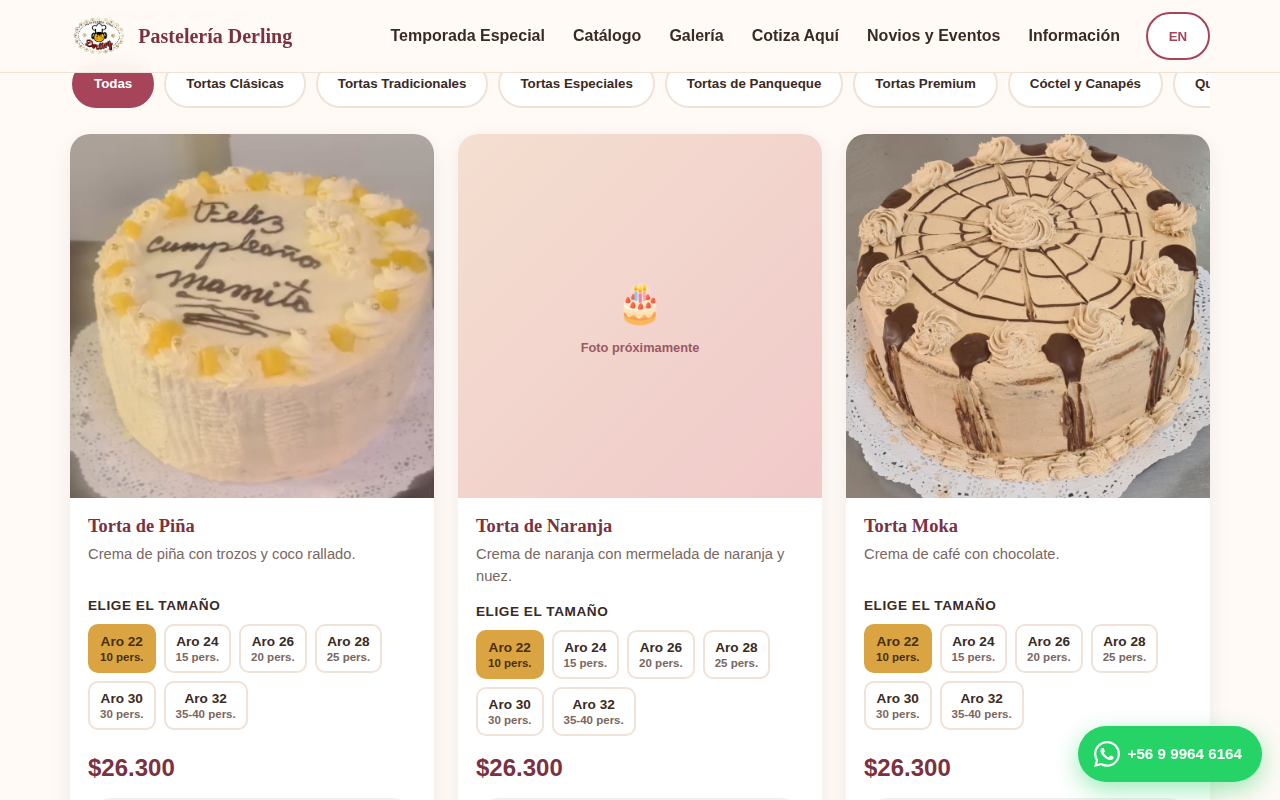
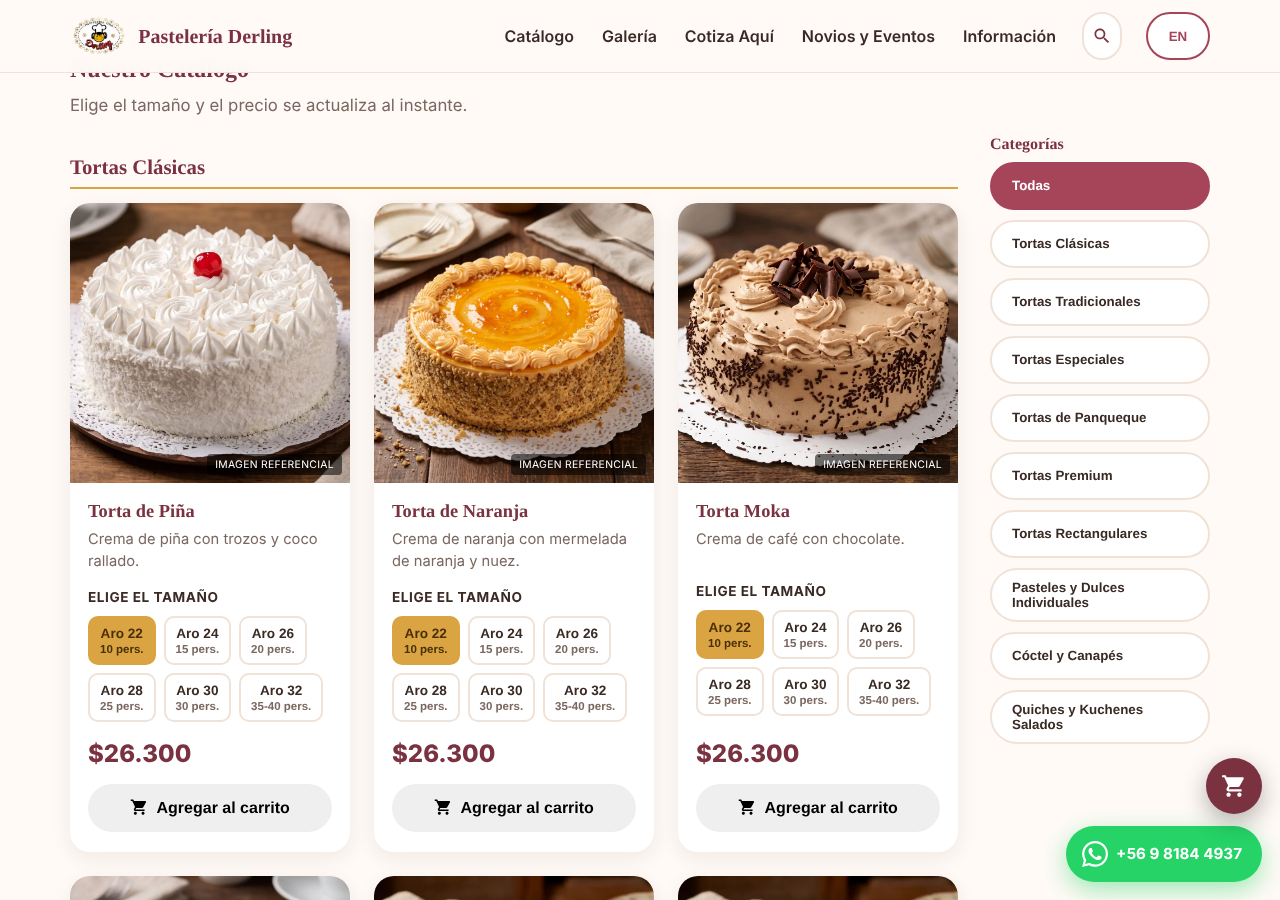
Actualizar README y capturas para presentación como portafolio
Reemplaza capturas desactualizadas con vistas actuales del sitio (carrito,
buscador en header, categorías en barra lateral), corrige la URL del sitio
en vivo, actualiza la lista de funcionalidades y simplifica las
instrucciones de instalación local ahora que main es la rama principal.

Claude-Session: https://claude.ai/code/session_01VYEH9iXryEp8i9u5qy5gRX

diff --git a/README.md b/README.md
@@ -4,7 +4,7 @@
 
 **Catálogo web para una pastelería artesanal en Copiapó, Chile** — bilingüe, 100% responsivo, con pedidos por WhatsApp y cero dependencias externas.
 
-[🔗 Ver sitio en vivo](https://TU-SITIO.netlify.app) · [📋 Reportar un problema](../../issues)
+[🔗 Ver sitio en vivo](https://pasteleriafinaderling.cl) · [📋 Reportar un problema](../../issues)
 
 ![HTML5](https://img.shields.io/badge/HTML5-E34F26?style=flat&logo=html5&logoColor=white)
 ![CSS3](https://img.shields.io/badge/CSS3-1572B6?style=flat&logo=css3&logoColor=white)
@@ -25,21 +25,22 @@
 </tr>
 <tr>
 <td width="50%"><img src="docs/screenshots/mobile-welcome.png" alt="Vista móvil con ventana de bienvenida"></td>
-<td width="50%"><img src="docs/screenshots/mobile-order-panel.png" alt="Panel de pedido en móvil"></td>
+<td width="50%"><img src="docs/screenshots/mobile-cart-panel.png" alt="Carrito de compras en móvil"></td>
 </tr>
 </table>
 
 ## ✨ Funcionalidades
 
-- **Catálogo interactivo** — más de 50 productos (tortas, cóctel, quiches) con selector de tamaño/porciones que actualiza el precio en pesos chilenos al instante.
+- **Catálogo interactivo** — decenas de productos organizados por categoría (tortas clásicas, especiales, rectangulares, individuales, cóctel, quiches y más) con selector de tamaño/porciones que actualiza el precio en pesos chilenos al instante.
 - **Bilingüe (ES/EN)** — un botón cambia todo el contenido, incluidos los mensajes de WhatsApp, sin recargar la página ni depender de un servicio de traducción pago.
-- **Panel de pedido** — al presionar "Pedir aquí" se abre un panel (lateral en escritorio, pantalla completa en celular) que reúne los datos del cliente y arma un mensaje de WhatsApp listo para enviar.
-- **Cotizador de pedidos múltiples** — formulario aparte para pedidos con varios productos a la vez, enviable por WhatsApp o por correo (Gmail).
-- **Reglas de negocio reales** — el calendario de entrega bloquea los domingos en tiempo real y limita el horario disponible (17:00–19:00) a intervalos de 30 minutos.
+- **Carrito de compras** — los productos se agregan al carrito desde cada tarjeta, con cantidad y texto personalizado para tortas; al finalizar, arma un mensaje de WhatsApp con el resumen del pedido, el total, el detalle del abono del 50% y los datos de transferencia bancaria.
+- **Cotizador de pedidos múltiples** — formulario aparte para pedidos fuera de catálogo o personalizados, enviable por WhatsApp o por correo (Gmail).
+- **Reglas de negocio reales** — el calendario de entrega bloquea los domingos y exige un mínimo de 48 horas de anticipación en tiempo real, y limita el horario disponible (17:00–19:00) a intervalos de 30 minutos.
+- **Buscador con autocompletado** — accesible desde un ícono de lupa junto al selector de idioma; filtra el catálogo mientras se escribe, ignorando tildes.
+- **Categorías en barra lateral** — filtro de categorías ordenado en una barra lateral en escritorio (fila horizontal en celular) para mantener el catálogo ordenado.
 - **Temporada especial** — sección destacada y activable/desactivable (ej. Fiestas Patrias) sin tocar el resto del sitio.
-- **Buscador con autocompletado** — filtra el catálogo mientras se escribe, ignorando tildes.
 - **Mapa embebido** — vista previa de la ubicación en la misma página, con modal ampliable.
-- **Botón flotante de WhatsApp** — siempre visible, con el número real del negocio.
+- **Botón flotante de WhatsApp y de carrito** — siempre visibles, con el número real del negocio y el conteo de productos agregados.
 
 ## 🔒 Seguridad
 
@@ -63,7 +64,7 @@ Es una decisión de diseño, no una limitación: el sitio pesa poco, carga rápi
 | **Interactividad** | JavaScript ES6+ nativo, DOM API |
 | **Íconos** | SVG dibujados a mano (WhatsApp, Instagram, Facebook, teléfono, correo) |
 | **Internacionalización** | Sistema propio de textos ES/EN por diccionario |
-| **Hosting** | Netlify (deploy continuo desde esta rama de GitHub) |
+| **Hosting** | Netlify (deploy continuo desde la rama `main` de GitHub) |
 | **Accesibilidad** | HTML semántico, `aria-label`, foco visible, tamaños táctiles ≥44px |
 
 ## 📁 Estructura del proyecto
@@ -87,7 +88,6 @@ No requiere instalar nada. Basta con abrir `index.html` en un navegador, o servi
 ```bash
 git clone https://github.com/RoseJulieth/PasteleriaDerling.git
 cd PasteleriaDerling
-git checkout claude/bakery-catalog-website-f31hgy
 python3 -m http.server 8000
 # abrir http://localhost:8000
 ```
